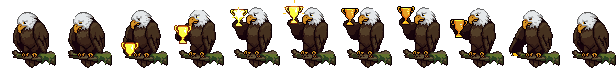
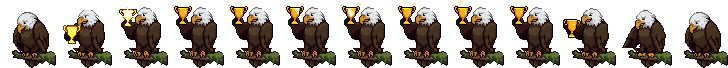
Trophy animation: steady branch and trophy, happy start, gleam and sparkles
- drop the head-down opening frames so he starts neutral
- align each frame's body to the awake frame and restore the awake branch, so
  the branch no longer bobs (feet stay as drawn)
- hold one trophy frame and draw a light sweep plus twinkling sparkles over it,
  so the trophy no longer shifts; remove stray trophy fragments in the tuck-away frame
- 13 frames, 2.4s

diff --git a/src/styles.css b/src/styles.css
@@ -519,11 +519,11 @@
   background-size: 1000% 100%;
   animation: eagle-celebrate-frames 1.4s steps(10, jump-none) forwards;
 }
-/* Achievement trophy: 11-frame trophy lift, played once (MODE_DURATION_MS in eagle-state.ts). */
+/* Achievement trophy: 13-frame trophy lift, played once (MODE_DURATION_MS in eagle-state.ts). */
 .study-eagle-sprite-trophy {
   background-image: url("/eagle-trophy.png");
-  background-size: 1100% 100%;
-  animation: eagle-trophy-frames 2s steps(11, jump-none) forwards;
+  background-size: 1300% 100%;
+  animation: eagle-trophy-frames 2.4s steps(13, jump-none) forwards;
 }
 /* Nodding off: 8-frame yawn, then the head sinks into the sleeping pose; played once (FALL_ASLEEP_MS). */
 .study-eagle-sprite-fallingAsleep {

diff --git a/src/lib/eagle-state.ts b/src/lib/eagle-state.ts
@@ -66,7 +66,7 @@ export const MODE_DURATION_MS: Partial<Record<EagleMode, number>> = {
   wakingUp: 1_200, // 8-frame stretch
   startled: 1_000, // 8-frame jolt awake
   celebrating: 1_400, // 10-frame victory cheer
-  trophy: 2_000, // 11-frame trophy lift, for a new achievement
+  trophy: 2_400, // 13-frame trophy lift with a gleam, for a new achievement
   petting: 900, // 8-frame head-bob
   openingBook: 900, // 6 frames: takes out the book
   openingGlass: 900, // 6 frames: takes out the magnifying glass

diff --git a/src/lib/eagle-state.test.ts b/src/lib/eagle-state.test.ts
@@ -54,7 +54,7 @@ describe("eagle state machine", () => {
     expect(settle("trophy", idle)).toBe("awake");
     expect(settle("trophy", typing)).toBe("grinding");
     expect(settle("wakingUp", idle, "trophy")).toBe("trophy");
-    expect(MODE_DURATION_MS.trophy).toBe(2_000);
+    expect(MODE_DURATION_MS.trophy).toBe(2_400);
   });
 
   it("drops grinding while he's being petted", () => {

diff --git a/scripts/build-eagle-sprites.py b/scripts/build-eagle-sprites.py
@@ -6,7 +6,7 @@
   pixellab-celebrate.png      PixelLab animation from the awake frame: wing-flap (8 x 80x80); no longer
                               shown, but still part of the shared palette and frame size
   pixellab-celebrate-cheer.png PixelLab animation from the awake frame: victory cheer, wings flung up (10 x 80x80)
-  pixellab-trophy.png         PixelLab animation from the awake frame: lifts a gold trophy, it gleams (11 x 80x80;
+  pixellab-trophy.png         PixelLab animation from the awake frame: lifts a gold trophy, it gleams (11 x 80x80, 7 used;
                               variant C, seed 313, of pixellab-trophy-{a,b,c}_N.png)
   pixellab-pet.png            PixelLab animation from the awake frame: happy head-bob (8 x 80x80)
   pixellab-fallasleep.png     PixelLab animation, awake frame -> sleep frame 1: a yawn, then the head sinks (8 x 80x80)
@@ -24,7 +24,7 @@ cut end sits against the right edge of the screen:
   public/eagle-awake.png      8 frames (idle loop)
   public/eagle-sleep.png      4 frames
   public/eagle-celebrate.png  10 frames (played once): the victory cheer
-  public/eagle-trophy.png     11 frames (played once, on a new achievement): raises the trophy
+  public/eagle-trophy.png     13 frames (played once, on a new achievement): raises the trophy, gleam + sparkles
   public/eagle-pet.png        8 frames (played once per tap)
   public/eagle-fallasleep.png 8 frames (played once, awake -> sleeping)
   public/eagle-wakeup.png     8 frames (played once, sleeping -> awake)
@@ -566,13 +566,110 @@ for f in cheer80:
     f[:y0] = 0; f[y1:] = 0; f[:, x1:] = 0
 celebrate80 = cheer80
 
-# The achievement trophy, also kept exactly as PixelLab drew it (same treatment as the cheer).
-trophy80 = [shift(f) for f in (lambda sheet: [sheet[:, 80 * i:80 * i + 80].copy()
-              for i in range(sheet.shape[1] // 80)])(
-                  np.asarray(Image.open(SRC / "pixellab-trophy.png").convert("RGBA")))]
-for f in trophy80:
-    f[LOCK:] = awake80[LOCK:]
-trophy80 = snap_extra(trophy80)
+# The achievement trophy (PixelLab variant C), tidied so it feels steady and happy:
+#  - the head-down first frames (1-2) are dropped, so he starts neutral and looks up;
+#  - every kept frame is shifted so his body sits exactly where it does in the awake
+#    frame, and the branch is put back from the awake frame (PixelLab redrew it a pixel
+#    off in the middle frames, so it seemed to bob); his feet stay as drawn;
+#  - the trophy is held on ONE frame (PixelLab's moves a pixel or two between frames)
+#    while a light sweep and twinkling sparkles are drawn over it in code.
+TROPHY_SRC = [0, 3, 4, 7]          # base, grabs it, raises it, holds it up
+TROPHY_END = [8, 9, 10]            # lowers it, tucks it away, settles
+TROPHY_HOLD = 7                    # frames of the hold, gleam and sparkles
+raw_trophy = pixellab_frames("trophy")
+keep = TROPHY_SRC + TROPHY_END
+trophy_src = snap_extra([raw_trophy[i] for i in keep])
+trophy_by = dict(zip(keep, trophy_src))
+
+
+def body_mask(f):
+    rgb = f[..., :3].astype(int)
+    m = (f[..., 3] > 0) & (rgb[..., 0] < 100) & (rgb[..., 1] < 80) & (rgb[..., 2] < 60)
+    m[:38] = False; m[56:] = False
+    return m
+
+
+def is_foot(f):
+    rgb = f[..., :3].astype(int)
+    return (f[..., 3] > 0) & (rgb[..., 0] > 150) & (rgb[..., 1] > 90) & (rgb[..., 2] < 90) & (rgb[..., 0] > rgb[..., 1] + 25)
+
+
+def steady(f):
+    """Put his body where it is in the awake frame and the branch back from it."""
+    sy, sx = best_shift(body_mask(awake80), body_mask(f), 5)
+    f = np.roll(np.roll(f, sy, 0), sx, 1)
+    from_base = np.zeros(f.shape[:2], bool); from_base[BRANCH_TOP:] = True
+    foot = is_foot(f)
+    foot[:, :FOOT_X[0] - 3] = False; foot[:, FOOT_X[1] + 4:] = False   # only where his feet really are
+    from_base &= ~foot
+    f = f.copy(); f[from_base] = awake80[from_base]
+    return f
+
+
+BRANCH_TOP = 55
+_fx = np.nonzero(is_foot(awake80)[BRANCH_TOP - 4:].any(0))[0]
+FOOT_X = (_fx.min(), _fx.max())
+trophy_by = {i: steady(f) for i, f in trophy_by.items()}
+
+
+def components(mask):
+    seen = np.zeros_like(mask); out = []
+    for y, x in zip(*np.nonzero(mask)):
+        if seen[y, x]: continue
+        comp, q = [], deque([(y, x)]); seen[y, x] = True
+        while q:
+            cy, cx = q.popleft(); comp.append((cy, cx))
+            for ny in (cy - 1, cy, cy + 1):
+                for nx in (cx - 1, cx, cx + 1):
+                    if 0 <= ny < 80 and 0 <= nx < 80 and mask[ny, nx] and not seen[ny, nx]:
+                        seen[ny, nx] = True; q.append((ny, nx))
+        out.append(comp)
+    return out
+
+
+def gleam_frames(f, n):
+    """n copies of f with a light sweep crossing the trophy and sparkles twinkling around it."""
+    rgb = f[..., :3].astype(int)
+    gold = (f[..., 3] > 0) & (rgb[..., 0] > 190) & (rgb[..., 1] > 120) & (rgb[..., 2] < 140)
+    gold[30:] = False
+    cup = max(components(gold), key=len)
+    ys = np.array([c[0] for c in cup]); xs = np.array([c[1] for c in cup])
+    key = xs + 0.6 * ys                       # position along the sweep direction
+    lo, hi = key.min() - 3, key.max() + 3
+    top, left, right = ys.min(), xs.min(), xs.max()
+    mid = (left + right) // 2
+    spots = [(top - 4, left - 3), (top + 1, right + 4), (top - 6, mid + 3), (top + 7, left - 4), (top - 2, mid - 2)]
+    # twinkle: off, dot, small plus, big star, small plus, dot
+    shapes = [[], [(0, 0)], [(0, 0), (-1, 0), (1, 0), (0, -1), (0, 1)],
+              [(0, 0), (-1, 0), (1, 0), (0, -1), (0, 1), (-2, 0), (2, 0), (0, -2), (0, 2)],
+              [(0, 0), (-1, 0), (1, 0), (0, -1), (0, 1)], [(0, 0)]]
+    out = []
+    for k in range(n):
+        g = f.copy()
+        centre = lo + (hi - lo) * (k - 1) / max(1, n - 4)   # sweeps over the middle frames
+        for y, x, kv in zip(ys, xs, key):
+            d = abs(kv - centre)
+            if d < 1.3: g[y, x, :3] = (255, 252, 235)
+            elif d < 3.0: g[y, x, :3] = (255, 236, 150)
+        for j, (sy, sx) in enumerate(spots):
+            for oy, ox in shapes[(k + 2 * j) % 6]:
+                yy, xx = sy + oy, sx + ox
+                if 0 <= yy < 80 and 0 <= xx < 80 and g[yy, xx, 3] == 0:
+                    g[yy, xx] = (255, 252, 235, 255) if (oy, ox) == (0, 0) else (255, 226, 120, 255)
+        out.append(g)
+    return out
+
+
+# the tucked-away frame leaves two stray bits of the trophy past the feet
+f9 = trophy_by[9]; rgb9 = f9[..., :3].astype(int)
+gold9 = (f9[..., 3] > 0) & (rgb9[..., 0] > 190) & (rgb9[..., 1] > 120) & (rgb9[..., 2] < 140)
+for comp in components(gold9):
+    if min(c[0] for c in comp) >= 58 and min(c[1] for c in comp) >= 55:
+        for cy, cx in comp: f9[cy, cx] = 0
+
+trophy80 = ([trophy_by[i] for i in TROPHY_SRC[:-1]]
+            + gleam_frames(trophy_by[TROPHY_HOLD], 7)
+            + [trophy_by[i] for i in TROPHY_END])
 for f in trophy80:
     f[:y0] = 0; f[y1:] = 0; f[:, x1:] = 0
 Image.fromarray(finish(trophy80), "RGBA").save(OUT / "eagle-trophy.png", optimize=True)
